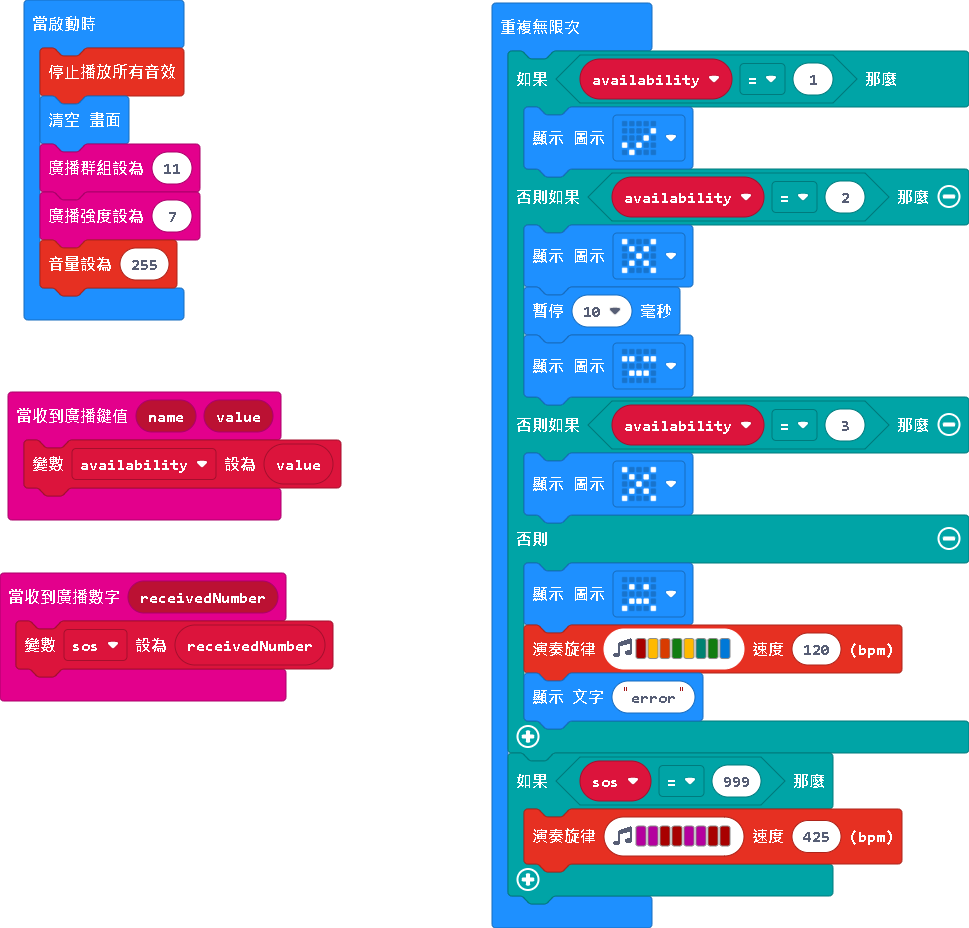
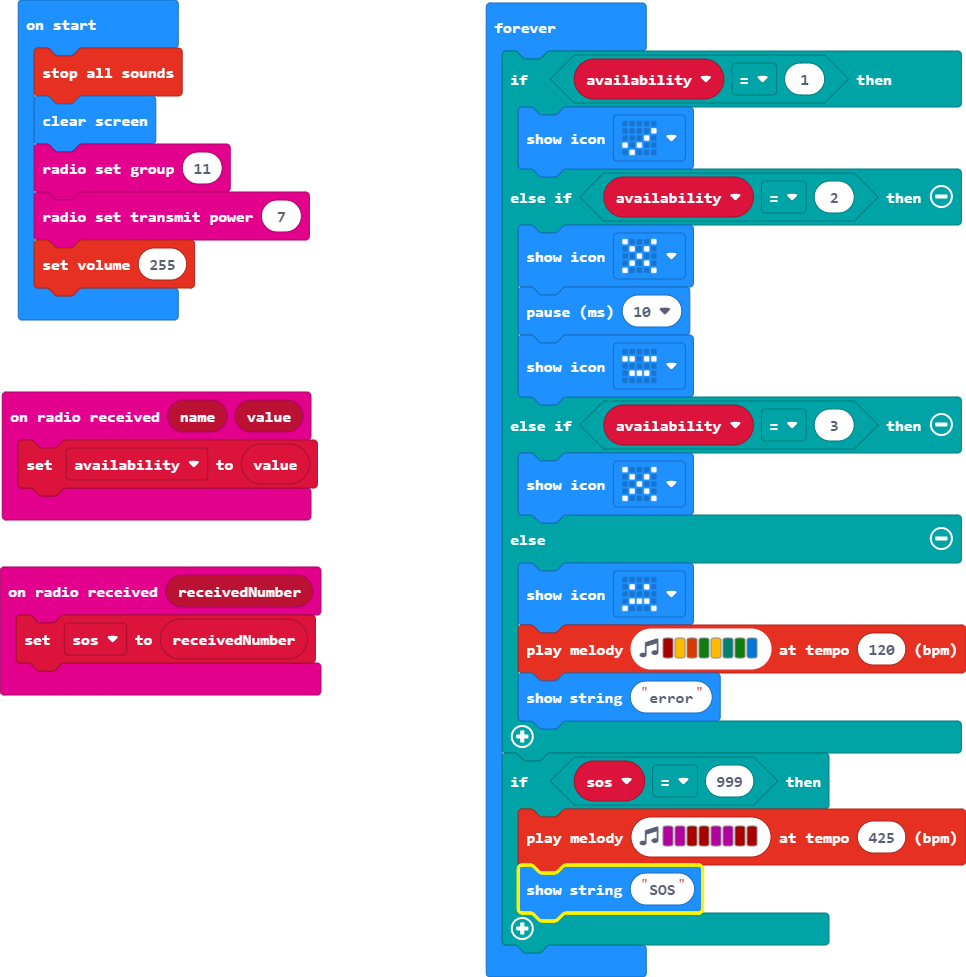
Update main.blocks, main.ts

diff --git a/main.ts b/main.ts
@@ -27,5 +27,6 @@ basic.forever(function () {
     }
     if (sos == 999) {
         music.playMelody("C C C5 C5 C C C5 C5 ", 425)
+        basic.showString("SOS")
     }
 })
